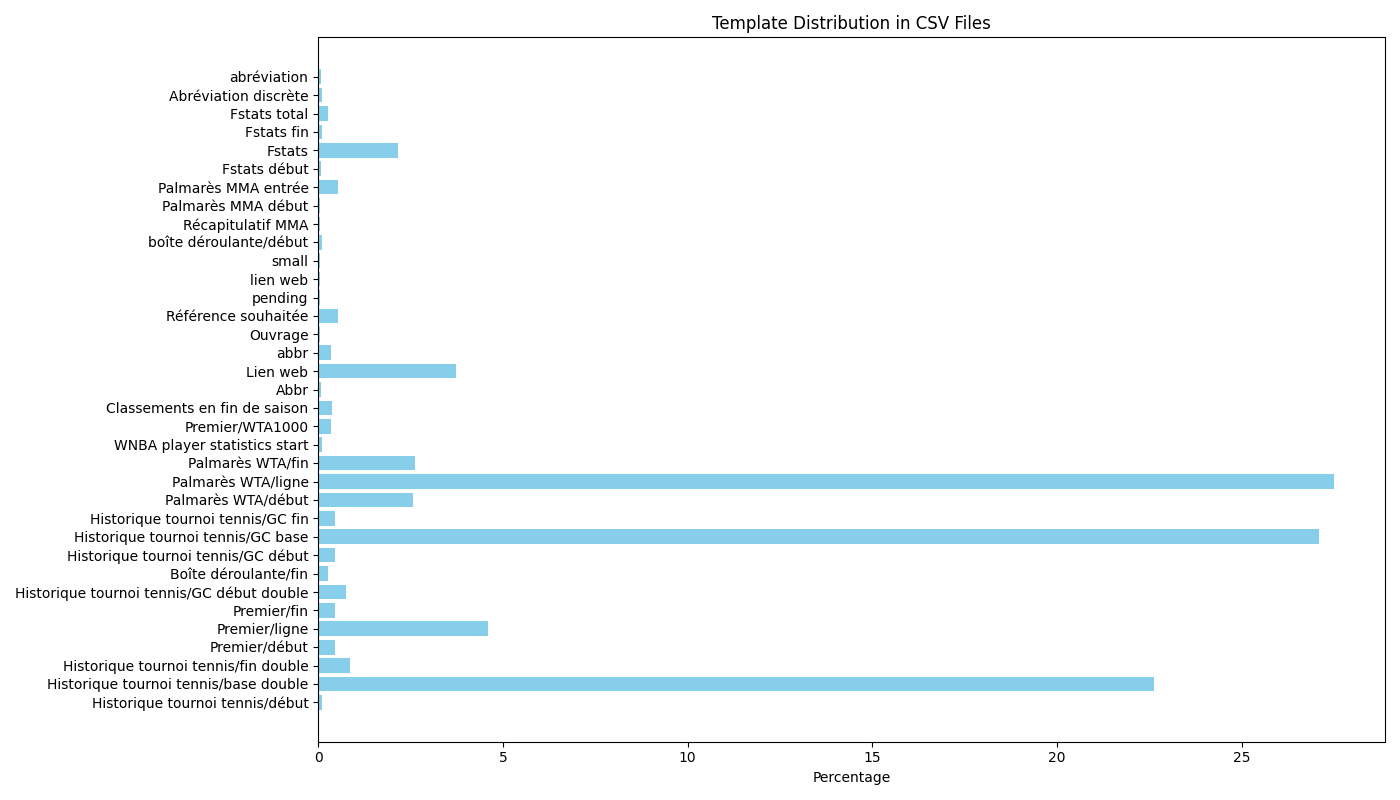
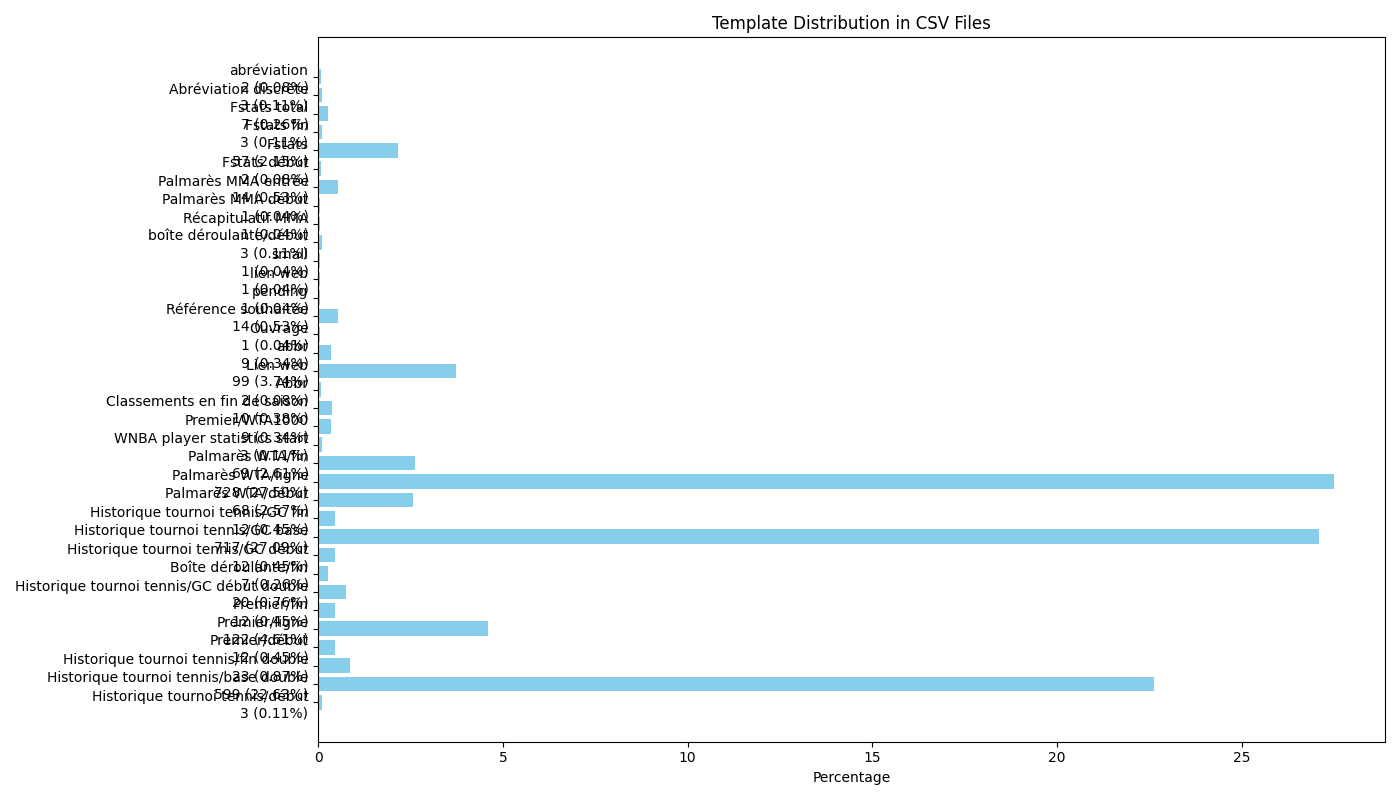
c

Changed region(s): [[0.0, 0.0625, 0.2457, 0.9062]]

diff --git a/Dataset/subcorpus-100-business-telco-celebrity/unparsed-template/celebrity-100/stas.py b/Dataset/subcorpus-100-business-telco-celebrity/unparsed-template/celebrity-100/stas.py
@@ -27,12 +27,16 @@ def analyze_templates():
     # Compute percentages
     template_percentages = {template: (count / total_templates) * 100 for template, count in template_counts.items()}
     
+    # Combine counts and percentages for visualization
+    template_summary = {template: (count, template_percentages[template]) for template, count in template_counts.items()}
+    
     # Create a pie chart with better visualization
     fig, ax = plt.subplots(figsize=(12, 8))
-    wedges, texts, autotexts = ax.pie(template_percentages.values(), labels=template_percentages.keys(), autopct='%1.1f%%', startangle=140, textprops=dict(color="w"))
+    labels = [f"{template}\n{count} ({percentage:.2f}%)" for template, (count, percentage) in template_summary.items()]
+    wedges, texts, autotexts = ax.pie([percentage for count, percentage in template_summary.values()], labels=labels, autopct='%1.1f%%', startangle=140, textprops=dict(color="w"))
     
     # Improve the legend and labels
-    ax.legend(wedges, template_percentages.keys(), title="Templates", loc="center left", bbox_to_anchor=(1, 0, 0.5, 1))
+    ax.legend(wedges, labels, title="Templates", loc="center left", bbox_to_anchor=(1, 0, 0.5, 1))
     plt.setp(autotexts, size=10, weight="bold")
     ax.set_title('Template Distribution in CSV Files')
     
@@ -42,8 +46,8 @@ def analyze_templates():
 
     # Create a bar chart
     fig, ax = plt.subplots(figsize=(14, 8))
-    templates = list(template_percentages.keys())
-    percentages = list(template_percentages.values())
+    templates = [f"{template}\n{count} ({percentage:.2f}%)" for template, (count, percentage) in template_summary.items()]
+    percentages = [percentage for count, percentage in template_summary.values()]
     
     ax.barh(templates, percentages, color='skyblue')
     ax.set_xlabel('Percentage')
@@ -61,8 +65,8 @@ def analyze_templates():
         report_file.write(f'Total number of templates: {total_templates}\n\n')
         
         report_file.write('## Template Distribution\n')
-        for template, percentage in template_percentages.items():
-            report_file.write(f'- **{template}**: {percentage:.2f}%\n')
+        for template, (count, percentage) in template_summary.items():
+            report_file.write(f'- **{template}**: {count} ({percentage:.2f}%)\n')
         
         report_file.write('\n## Pie Chart\n')
         report_file.write('![Template Distribution Pie Chart](template_distribution_pie_chart.png)\n')

diff --git a/Dataset/subcorpus-100-business-telco-celebrity/unparsed-template/celebrity-100/template_distribution_report.md b/Dataset/subcorpus-100-business-telco-celebrity/unparsed-template/celebrity-100/template_distribution_report.md
@@ -5,41 +5,41 @@ This report analyzes the distribution of templates across all CSV files in the c
 Total number of templates: 2647
 
 ## Template Distribution
-- **Historique tournoi tennis/début**: 0.11%
-- **Historique tournoi tennis/base double**: 22.63%
-- **Historique tournoi tennis/fin double**: 0.87%
-- **Premier/début**: 0.45%
-- **Premier/ligne**: 4.61%
-- **Premier/fin**: 0.45%
-- **Historique tournoi tennis/GC début double**: 0.76%
-- **Boîte déroulante/fin**: 0.26%
-- **Historique tournoi tennis/GC début**: 0.45%
-- **Historique tournoi tennis/GC base**: 27.09%
-- **Historique tournoi tennis/GC fin**: 0.45%
-- **Palmarès WTA/début**: 2.57%
-- **Palmarès WTA/ligne**: 27.50%
-- **Palmarès WTA/fin**: 2.61%
-- **WNBA player statistics start**: 0.11%
-- **Premier/WTA1000**: 0.34%
-- **Classements en fin de saison**: 0.38%
-- **Abbr**: 0.08%
-- **Lien web**: 3.74%
-- **abbr**: 0.34%
-- **Ouvrage**: 0.04%
-- **Référence souhaitée**: 0.53%
-- **pending**: 0.04%
-- **lien web**: 0.04%
-- **small**: 0.04%
-- **boîte déroulante/début**: 0.11%
-- **Récapitulatif MMA**: 0.04%
-- **Palmarès MMA début**: 0.04%
-- **Palmarès MMA entrée**: 0.53%
-- **Fstats début**: 0.08%
-- **Fstats**: 2.15%
-- **Fstats fin**: 0.11%
-- **Fstats total**: 0.26%
-- **Abréviation discrète**: 0.11%
-- **abréviation**: 0.08%
+- **Historique tournoi tennis/début**: 3 (0.11%)
+- **Historique tournoi tennis/base double**: 599 (22.63%)
+- **Historique tournoi tennis/fin double**: 23 (0.87%)
+- **Premier/début**: 12 (0.45%)
+- **Premier/ligne**: 122 (4.61%)
+- **Premier/fin**: 12 (0.45%)
+- **Historique tournoi tennis/GC début double**: 20 (0.76%)
+- **Boîte déroulante/fin**: 7 (0.26%)
+- **Historique tournoi tennis/GC début**: 12 (0.45%)
+- **Historique tournoi tennis/GC base**: 717 (27.09%)
+- **Historique tournoi tennis/GC fin**: 12 (0.45%)
+- **Palmarès WTA/début**: 68 (2.57%)
+- **Palmarès WTA/ligne**: 728 (27.50%)
+- **Palmarès WTA/fin**: 69 (2.61%)
+- **WNBA player statistics start**: 3 (0.11%)
+- **Premier/WTA1000**: 9 (0.34%)
+- **Classements en fin de saison**: 10 (0.38%)
+- **Abbr**: 2 (0.08%)
+- **Lien web**: 99 (3.74%)
+- **abbr**: 9 (0.34%)
+- **Ouvrage**: 1 (0.04%)
+- **Référence souhaitée**: 14 (0.53%)
+- **pending**: 1 (0.04%)
+- **lien web**: 1 (0.04%)
+- **small**: 1 (0.04%)
+- **boîte déroulante/début**: 3 (0.11%)
+- **Récapitulatif MMA**: 1 (0.04%)
+- **Palmarès MMA début**: 1 (0.04%)
+- **Palmarès MMA entrée**: 14 (0.53%)
+- **Fstats début**: 2 (0.08%)
+- **Fstats**: 57 (2.15%)
+- **Fstats fin**: 3 (0.11%)
+- **Fstats total**: 7 (0.26%)
+- **Abréviation discrète**: 3 (0.11%)
+- **abréviation**: 2 (0.08%)
 
 ## Pie Chart
 ![Template Distribution Pie Chart](template_distribution_pie_chart.png)
